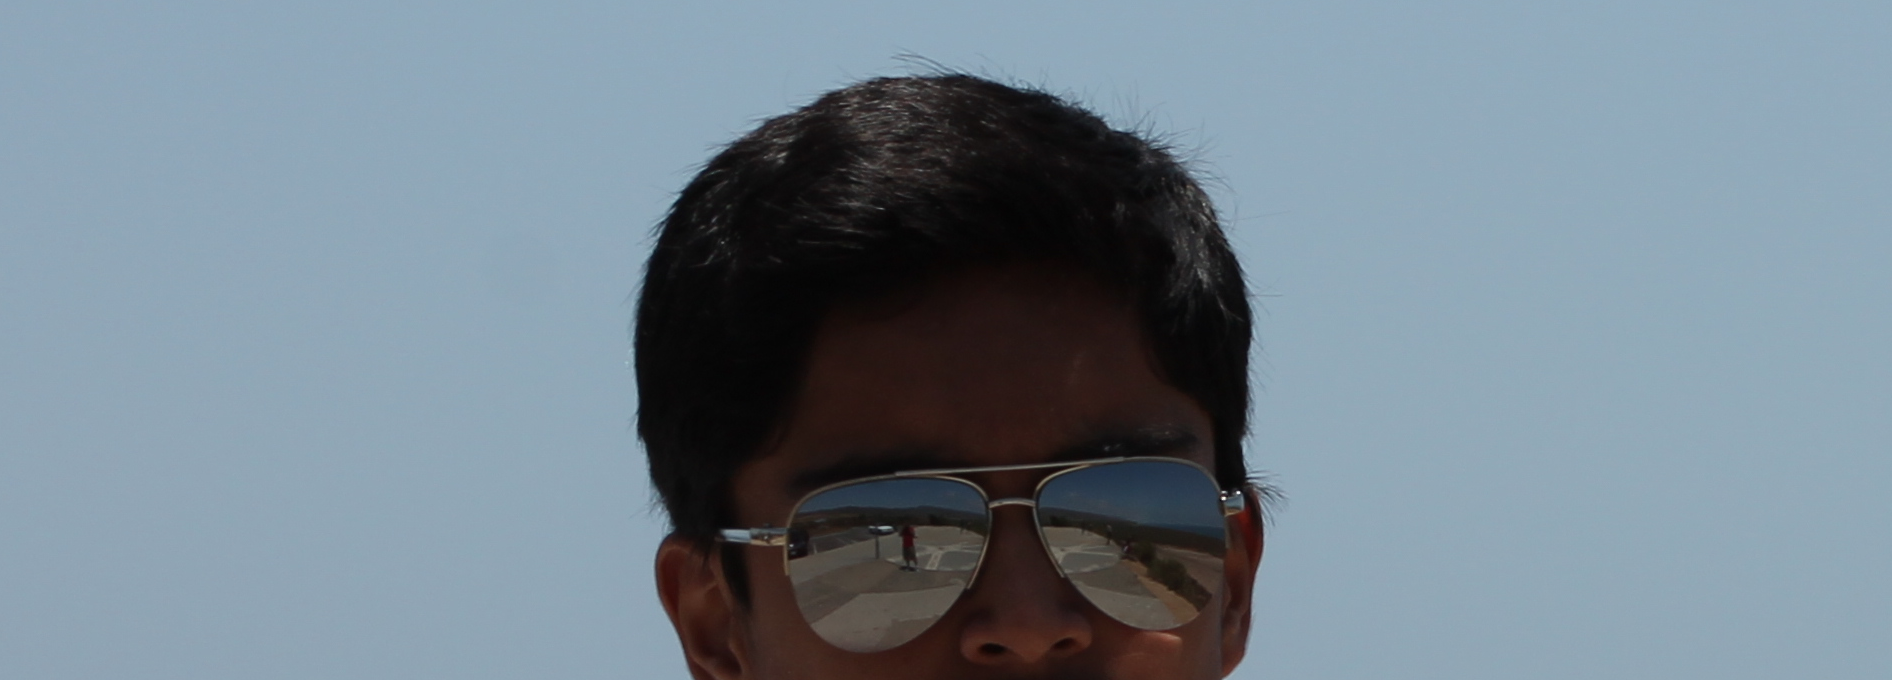
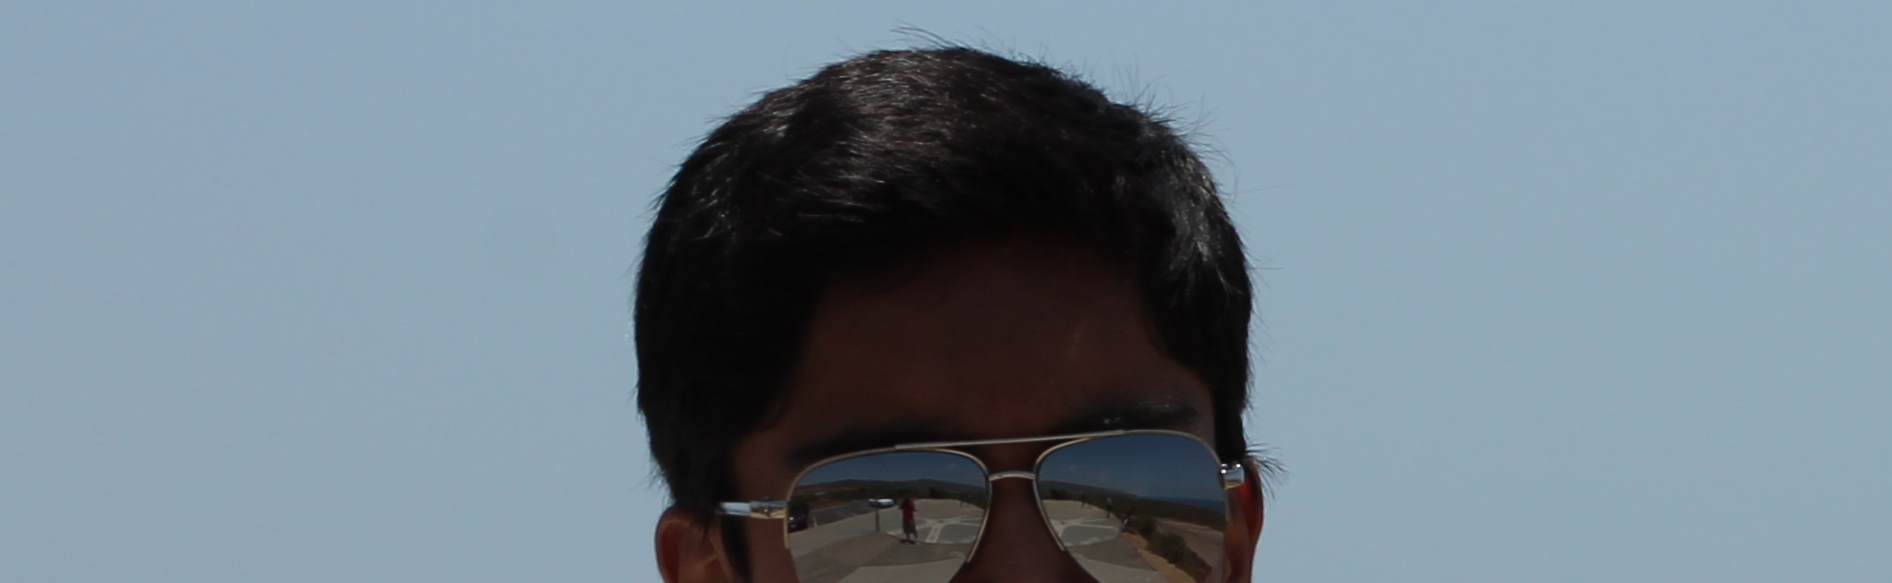
Changed basic stuff

diff --git a/index.html b/index.html
@@ -4,8 +4,9 @@
 
 <html xmlns="http://www.w3.org/1999/xhtml">
 <head>
-  <title>mrvivacio.us</title>
+  <title>mrvivacious</title>
   <link href="template.css" rel="stylesheet" type="text/css" />
+  <link rel="icon" href="http://clipartix.com/wp-content/uploads/2017/06/Sunshine-free-sun-clipart-clip-art-images-and-7.png">
   <link rel="stylesheet" href="https://cdnjs.cloudflare.com/ajax/libs/font-awesome/4.7.0/css/font-awesome.min.css">
 </head>
 
@@ -13,13 +14,12 @@
 
   <div>
 
-    <!-- <img src="pictures/beach3.png" alt="Vivek at the beach" width=750 height=400
-        style='height: 100%; width: 100%; object-fit: contain'> -->
+        <!-- <p align="center"><img src="pictures/pinball.jpg" align="center" alt="Vivek and Viraat" width=750 height=400
+            style='height: 100%; width: 100%; object-fit: contain'></p> -->
+            <p align="center"><img src="pictures/beach4.png" alt="Vivek at the beach" width=750 height=400
+                style='height: 100%; width: 100%; object-fit: contain'></p>
 
-        <p align="center"><img src="pictures/pinball.jpg" align="center" alt="Vivek and Viraat" width=750 height=400
-            style='height: 100%; width: 100%; object-fit: contain'></p>
-
-        <p align="center" style="font-size:350%;">Hi, I'm Vivek Bhookya.</p>
+        <p align="center" style="font-size:350%;"><a href="hiim.html">Hi, I'm Vivek Bhookya.</a></p>
 
         <br>
 
@@ -55,8 +55,11 @@
 
     <div>
 
-    <p align="center"><img src="pictures/beach3.png" alt="Vivek at the beach" width=750 height=400
-        style='height: 100%; width: 100%; object-fit: contain'></p>
+    <!-- <p align="center"><img src="pictures/beach3.png" alt="Vivek at the beach" width=750 height=400
+        style='height: 100%; width: 100%; object-fit: contain'></p> -->
+
+        <p align="center"><img src="pictures/kite5new.jpg" align="center" alt="Vivek and Viraat" width=750 height=400
+            style='height: 100%; width: 100%; object-fit: contain'></p>
         <hr>
 
   </div>
